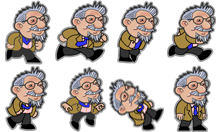
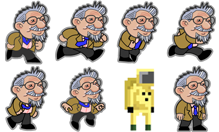
added 'ducking' safety state + score penalty

Changed region(s): [[0.4932, 0.5152, 0.7671, 1.0]]

diff --git a/js/script.js b/js/script.js
@@ -355,6 +355,7 @@
 	    value: function update() {
 	      var _this2 = this;
 
+	      console.log(this.player.ducking);
 	      this.game.physics.arcade.collide(this.kamikazeGroup, this.ground, this.kamikazeGroundHitHandler, null, this);
 	      this.game.physics.arcade.collide(this.player, this.ground);
 
@@ -404,14 +405,16 @@
 	        // player laten bukken als hij de grond raakt
 	        if (cursors.down.isDown && this.player.body.touching.down) {
 	          this.player.duck();
+	          this.player.scoreDown();
 	        }
 	      }
-
 	      this.scoreHandler();
 	    }
 	  }, {
 	    key: 'scoreHandler',
 	    value: function scoreHandler() {
+	      //bukken -score updaten
+	      this.game.score = Math.floor(this.game.score);
 	      this.scoreText.setText("Score: " + this.game.score);
 	      switch (this.game.score) {
 	        case 0:
@@ -455,16 +458,20 @@
 	    value: function playerDropperHitHandler(player, enemy) {
 	      enemy.kill();
 	      //this.dropperLow.kill();
-	      this.player.hit();
-	      this.livesText.setText("Lives: " + this.player.lives);
+	      if (this.player.ducking == false) {
+	        this.player.hit();
+	        this.livesText.setText("Lives: " + this.player.lives);
+	      }
 	    }
 	  }, {
 	    key: 'kamikazeHitHandler',
 	    value: function kamikazeHitHandler(player, kamikaze) {
 	      kamikaze.destroy();
 	      //this.dropperLow.kill();
-	      this.player.hit();
-	      this.livesText.setText("Lives: " + this.player.lives);
+	      if (this.player.ducking == false) {
+	        this.player.hit();
+	        this.livesText.setText("Lives: " + this.player.lives);
+	      }
 	    }
 	  }, {
 	    key: 'kamikazeGroundHitHandler',
@@ -478,9 +485,11 @@
 	      //broken eggs on the ground do not harm the player
 	      if (egg.body.y < this.player.body.y) {
 	        egg.break();
-	        this.player.hit();
-	        this.livesText.setText("Lives: " + this.player.lives);
-	      };
+	        if (this.player.ducking == false) {
+	          this.player.hit();
+	          this.livesText.setText("Lives: " + this.player.lives);
+	        }
+	      }
 	    }
 	  }, {
 	    key: 'playerPotionHitHandler',
@@ -716,6 +725,8 @@
 	    _this.body.setSize(40, 60);
 
 	    _this.ducking = false;
+
+	    _this.getal = 5;
 	    return _this;
 	  }
 
@@ -734,7 +745,9 @@
 	      } else {
 	        this.animations.play('run', 9, true);
 	      }
-	      this.ducking = false;
+	      if (this.frame != 5) {
+	        this.ducking = false;
+	      }
 	    }
 
 	    //powerhandling
@@ -787,6 +800,19 @@
 	      if (this.body.position.x > 0) {
 	        this.body.position.x -= 1;
 	      };
+	      this.scoreDown();
+	    }
+	  }, {
+	    key: 'scoreDown',
+	    value: function scoreDown() {
+	      this.getal -= 0.2;
+	      if (this.getal < 0) {
+	        this.game.score -= 1;
+	        this.getal = 5;
+	      }
+	      if (this.game.score < 0) {
+	        this.game.score = 0;
+	      }
 	    }
 	  }, {
 	    key: 'hit',

diff --git a/_js/classes/states/Play.js b/_js/classes/states/Play.js
@@ -57,6 +57,7 @@ export default class Play extends Phaser.State {
     this.countdownTimer = this.game.time.events.loop(1000, this.countdown, this);
   }
   update() {
+    console.log(this.player.ducking);
     this.game.physics.arcade.collide(this.kamikazeGroup, this.ground, this.kamikazeGroundHitHandler, null, this);
     this.game.physics.arcade.collide(this.player, this.ground);
 
@@ -110,14 +111,16 @@ export default class Play extends Phaser.State {
       // player laten bukken als hij de grond raakt
       if (cursors.down.isDown && this.player.body.touching.down){
           this.player.duck();
+          this.player.scoreDown();
       }
     }
-
     this.scoreHandler();
 
   }
 
   scoreHandler(){
+    //bukken -score updaten
+    this.game.score= Math.floor(this.game.score);
     this.scoreText.setText("Score: " + this.game.score);
     switch(this.game.score){
       case (0):
@@ -160,15 +163,19 @@ export default class Play extends Phaser.State {
   playerDropperHitHandler(player, enemy){
     enemy.kill();
     //this.dropperLow.kill();
-    this.player.hit();
-    this.livesText.setText("Lives: " + this.player.lives);
+    if (this.player.ducking==false) {
+      this.player.hit();
+      this.livesText.setText("Lives: " + this.player.lives);
+    }
   }
 
   kamikazeHitHandler(player, kamikaze){
     kamikaze.destroy();
     //this.dropperLow.kill();
-    this.player.hit();
-    this.livesText.setText("Lives: " + this.player.lives);
+    if (this.player.ducking==false) {
+      this.player.hit();
+      this.livesText.setText("Lives: " + this.player.lives);
+    }
   }
 
   kamikazeGroundHitHandler(ground, kamikaze){
@@ -180,9 +187,11 @@ export default class Play extends Phaser.State {
     //broken eggs on the ground do not harm the player
     if (egg.body.y < this.player.body.y) {
       egg.break();
-      this.player.hit();
-      this.livesText.setText("Lives: " + this.player.lives);
-    };
+      if (this.player.ducking==false) {
+        this.player.hit();
+        this.livesText.setText("Lives: " + this.player.lives);
+      }
+    }
   }
 
   playerPotionHitHandler(player, potion){

diff --git a/_js/classes/objects/Player.js b/_js/classes/objects/Player.js
@@ -16,6 +16,8 @@ export default class Player extends Phaser.Sprite {
     this.body.setSize(40,60);
 
     this.ducking = false;
+
+    this.getal = 5;
   }
   update() {
     if(this.powered == true) {
@@ -30,7 +32,9 @@ export default class Player extends Phaser.Sprite {
     } else{
       this.animations.play('run', 9, true);
     }
-    this.ducking=false;
+    if (this.frame!=5) {
+      this.ducking=false;
+    }
   }
 
   //powerhandling
@@ -73,6 +77,18 @@ export default class Player extends Phaser.Sprite {
     if (this.body.position.x > 0) {
        this.body.position.x -= 1;
     };
+    this.scoreDown();
+  }
+
+  scoreDown(){
+    this.getal -=0.2;
+    if (this.getal< 0) {
+      this.game.score-=1;
+      this.getal = 5;
+    }
+    if (this.game.score<0) {
+      this.game.score=0;
+    }
   }
 
   hit(){
